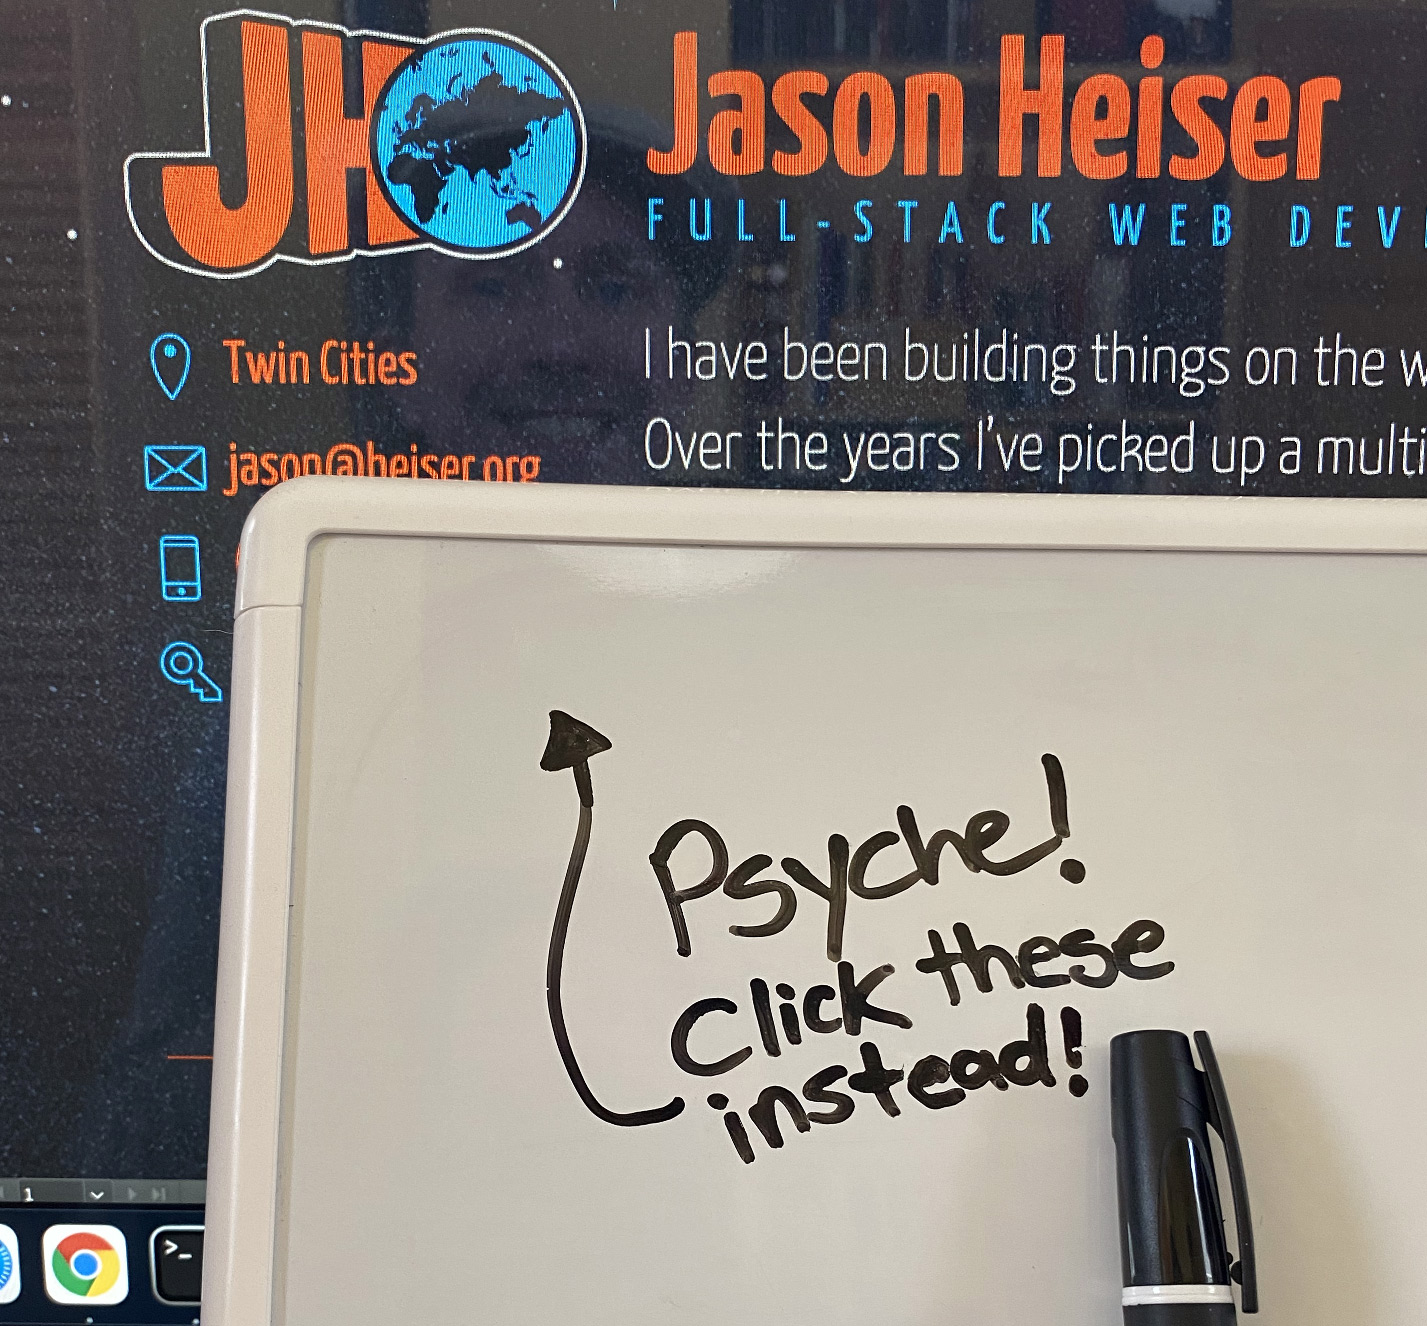
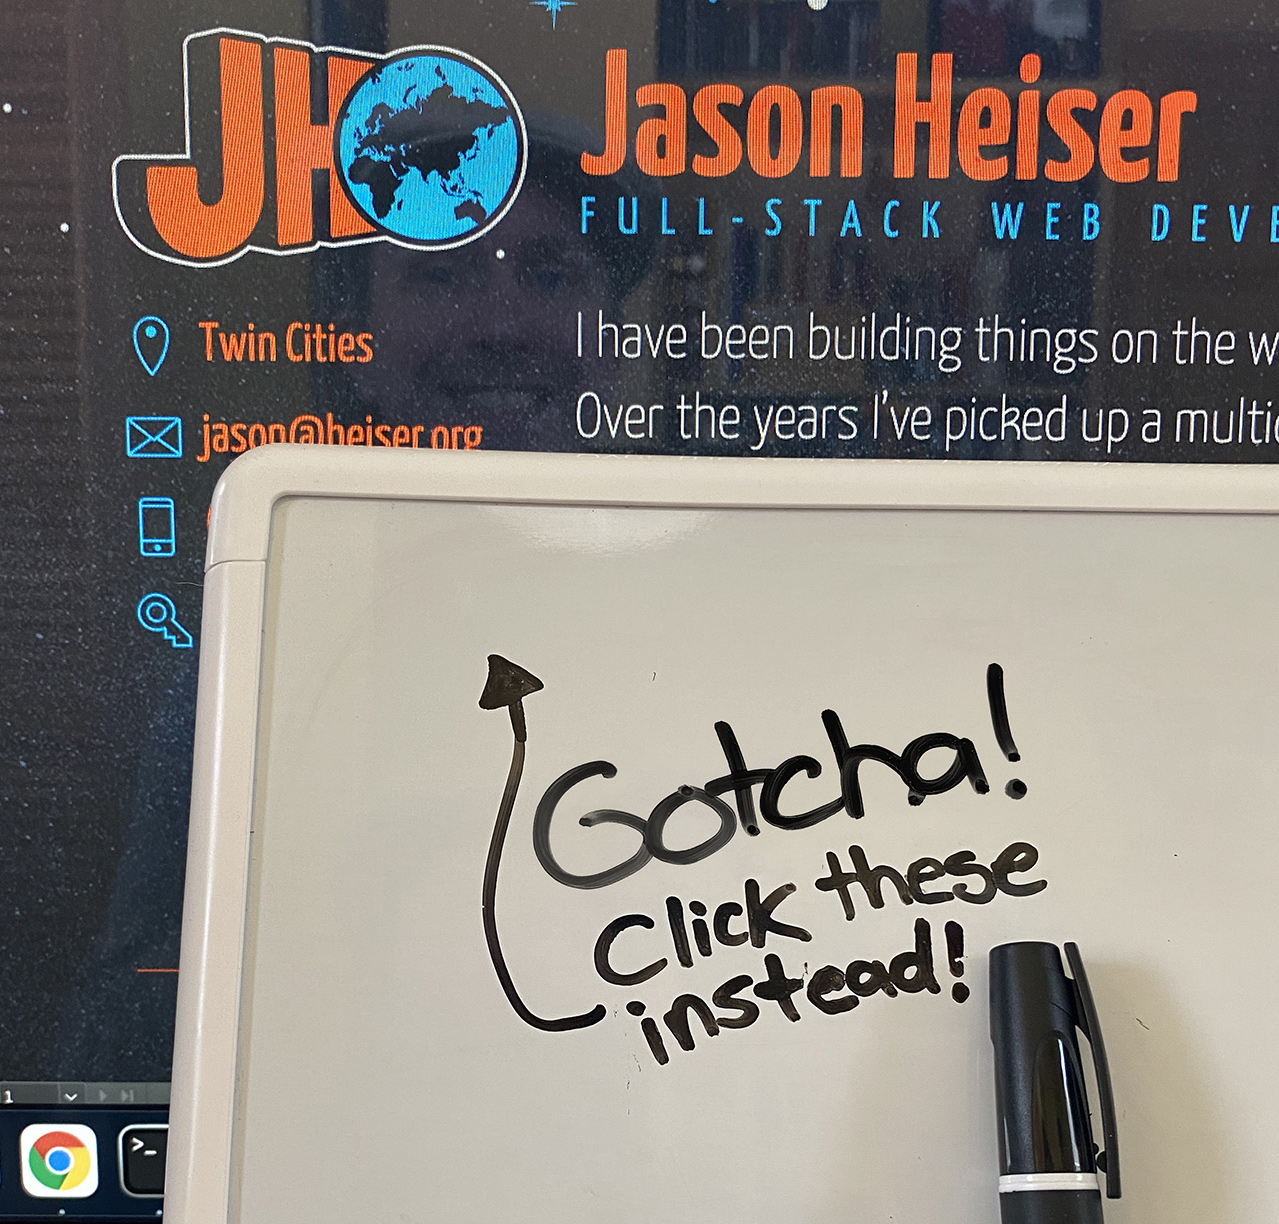
Too impertinent!

Changed region(s): [[0.0, 0.0, 1.0, 1.0], [0.3659, 0.5278, 0.8843, 1.0], [0.0, 0.0621, 0.0305, 0.0931]]

diff --git a/src/style.scss b/src/style.scss
@@ -451,7 +451,7 @@ main {
               background-size: 170px 125px;
               width: 170px;
               height: 125px;
-              background-image: url(psyche.png);
+              background-image: url(gotcha.png);
               background-repeat: no-repeat;
               pointer-events: none;
               transform: translateY(-60%) translateX(-115%);
@@ -459,9 +459,9 @@ main {
             }
             &:hover {
               text-decoration: underline;
-              &:before {
-                opacity: 1;
-              }
+            }
+            &:focus:before {
+              opacity: 1;
             }
             @include mobile-only {
               font-weight: 300;
